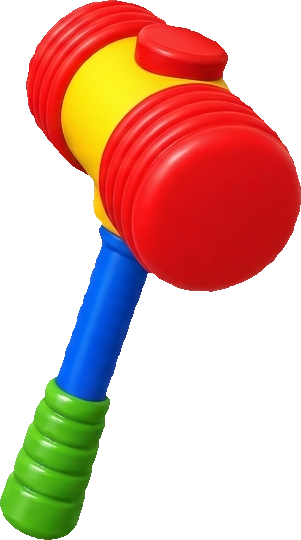
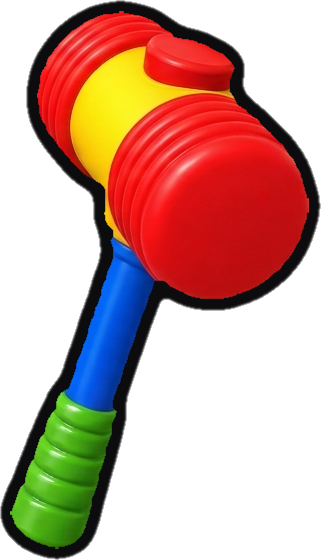
두더지팡 v322: 뿅망치 검은 외곽선
hammer.png 에 대포와 같은 검은 외곽선 처리 (eat_fringe + add_black_outline,
본체 1px 침식). 301→321×560px. 이에 맞춰:
- lane-hammer.js GRIP_X 24→25.3, GRIP_Y 84→82.8 (외곽선 패딩 재계산)
- style.css .lane-hammer width 13%→13.85% (아트 자체 크기 유지)

Claude-Session: https://claude.ai/code/session_01J5hEhYng5V7YnjsGoUQhbZ

Changed region(s): [[0.0, 0.0, 1.0, 1.0]]

diff --git a/mole/index.html b/mole/index.html
@@ -171,7 +171,7 @@
       </div>
 
       <!-- 시작 UI = 카톡풍 대화 (폰 화면 = 보드 안) -->
-      <div id="build-tag" aria-hidden="true">v321</div>
+      <div id="build-tag" aria-hidden="true">v322</div>
       <div id="board-start" class="board-panel board-start">
 
         <!-- 첫 방문: 전체 인트로 대화 -->
@@ -566,7 +566,7 @@
       } else {
         // ?v= 로 매 배포마다 URL을 바꿔서 GitHub Pages의 sw.js 캐시(max-age=600)를 무조건 우회 —
         // 안 그러면 배포 직후에도 최대 10분간 옛 서비스워커가 안 갈리는 경우가 있었음(사용자 보고).
-        navigator.serviceWorker.register('sw.js?v=321').catch(function () {});
+        navigator.serviceWorker.register('sw.js?v=322').catch(function () {});
       }
     });
   }

diff --git a/mole/js/lane-hammer.js b/mole/js/lane-hammer.js
@@ -11,8 +11,8 @@
   const RISE_SEC = 0.10;
   const HOME_SEC = 0.22;
 
-  const GRIP_X = 24;   // 스프라이트 안 손잡이 잡는 점 (%)
-  const GRIP_Y = 84;
+  const GRIP_X = 25.3;   // 스프라이트 안 손잡이 잡는 점 (%) — 검은 외곽선 추가(301→321px)로 재계산
+  const GRIP_Y = 82.8;
   const HOME_X = 0.90, HOME_Y = 0.965; // 대기 위치 (보드 분수) — 우측 맨 아래 구석. 16번 구멍
                                        // (~0.86,0.84) 아래로 비켜서 안 겹치고, 보드 안(<1)이라 버튼 안 닿음
   const HOME_DEG = 18;                 // 대기: 살짝 눕힘 (머리는 좌상단 잔디 쪽 — 화면 밖으로 안 나가게)

diff --git a/mole/sw.js b/mole/sw.js
@@ -3,7 +3,7 @@
 // 폴백 전용으로만 갱신한다. (예전엔 stale-while-revalidate라 배포해도 "다음 실행"에야
 // 반영돼 사용자 체감 대기가 길었음 — 온라인=항상 최신, 오프라인=마지막 캐시로 변경.)
 // SHELL 목록 자체가 바뀔 때만 CACHE 를 올린다.
-const CACHE = 'mole-game-v321';
+const CACHE = 'mole-game-v322';
 
 // 화면별 BGM(audio/bgm-*.mp3)은 v275 부터 SHELL 에 포함 — 기본 켜짐(v272)이라 항상 필요하고,
 // 캐시가 안 돼 있으면 오프라인/느린망에서 재생 실패했음.

diff --git a/mole/style.css b/mole/style.css
@@ -1655,7 +1655,7 @@ body { background: var(--lm-page); }
 }
 .lane-hammer {
   position: absolute;
-  width: 13%;
+  width: 13.85%;   /* 검은 외곽선(약 9px) 추가로 스프라이트가 커진 만큼(301→321px) 보정해 망치 아트 자체 크기 유지 */
   will-change: transform;
 }
 .lane-hammer img { display: block; width: 100%; filter: drop-shadow(0 5px 5px rgba(0, 0, 0, 0.5)); }
